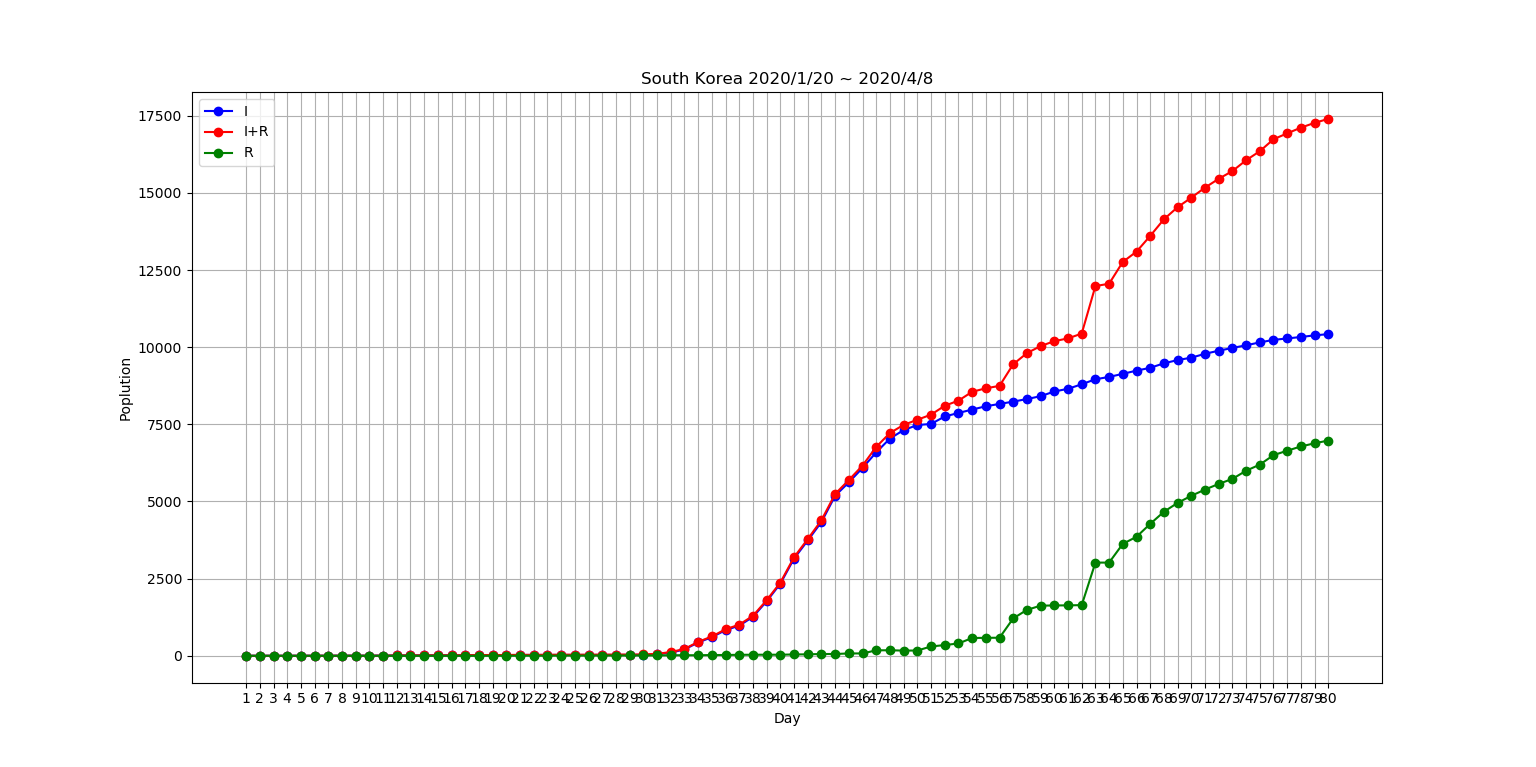
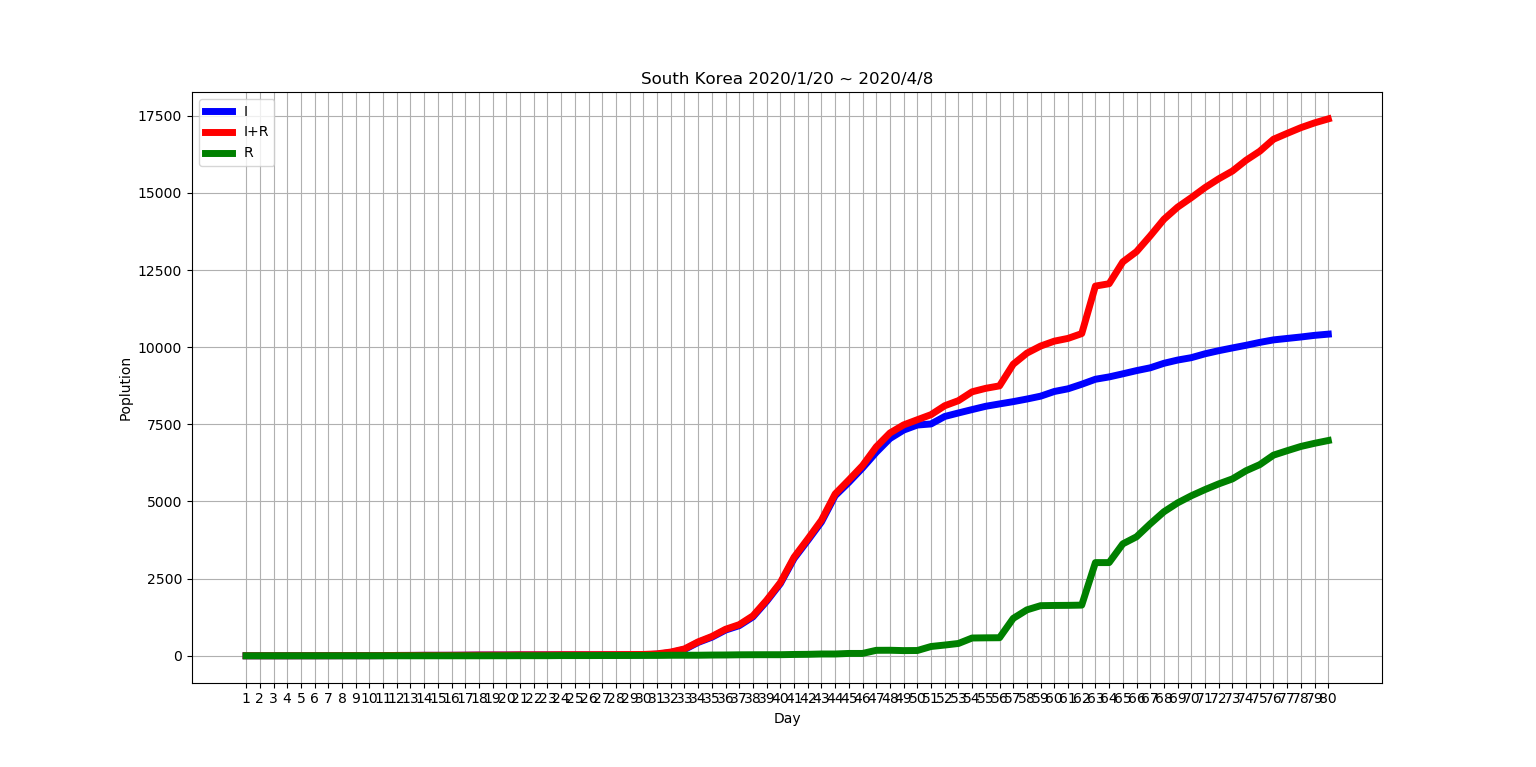
2020/4/10

diff --git a/Country_COVID19/Analysis.py b/Country_COVID19/Analysis.py
@@ -62,9 +62,9 @@ yIC = np.array(dataC['Cumulative number of confirmed cases'][0:51])
 yRC = np.array(dataC['D+R(cumulative)'][0:51])
 yC_C = yIC + yRC
 
-plt.plot(xC, yIC, '-ok', color = 'blue', label = 'I')
-plt.plot(xC, yC_C, '-ok', color = 'red', label = 'I+R')
-plt.plot(xC, yRC, '-ok', color = 'green', label = 'R')
+plt.plot(xC, yIC, '-', color = 'blue', label = 'I', linewidth = 5)
+plt.plot(xC, yC_C, '-', color = 'red', label = 'I+R', linewidth = 5)
+plt.plot(xC, yRC, '-', color = 'green', label = 'R', linewidth = 5)
 plt.title('China 2020/1/16 ~ 2020/3/5')
 plt.xlabel('Day')
 plt.ylabel('Poplution')
@@ -79,9 +79,9 @@ yIK = np.array(dataK['Cumulative number of confirmed cases'])
 yRK = np.array(dataK['Deaths(cumulative)'] + dataK['Recovered(cumulative)'])
 yK_C = yIK + yRK
 
-plt.plot(xK, yIK, '-ok', color = 'blue', label = 'I')
-plt.plot(xK, yK_C, '-ok', color = 'red', label = 'I+R')
-plt.plot(xK, yRK, '-ok', color = 'green', label = 'R')
+plt.plot(xK, yIK, '-', color = 'blue', label = 'I', linewidth = 5)
+plt.plot(xK, yK_C, '-', color = 'red', label = 'I+R', linewidth = 5)
+plt.plot(xK, yRK, '-', color = 'green', label = 'R', linewidth = 5)
 plt.title('South Korea 2020/1/20 ~ 2020/4/8')
 plt.xlabel('Day')
 plt.ylabel('Poplution')
@@ -96,9 +96,9 @@ yIIta = np.array(dataIt['Cumulative number of confirmed cases'])
 yRIta = np.array(dataIt['Deaths(cumulative)'] + dataIt['Recovered(cumulative)'])
 yIta_C = yIIta + yRIta
 
-plt.plot(xIta, yIIta, '-ok', color = 'blue', label = 'I')
-plt.plot(xIta, yIta_C, '-ok', color = 'red', label = 'I+R')
-plt.plot(xIta, yRIta, '-ok', color = 'green', label = 'R')
+plt.plot(xIta, yIIta, '-', color = 'blue', label = 'I', linewidth = 5)
+plt.plot(xIta, yIta_C, '-', color = 'red', label = 'I+R', linewidth = 5)
+plt.plot(xIta, yRIta, '-', color = 'green', label = 'R', linewidth = 5)
 plt.title('Italy 2020/2/17 ~ 2020/4/6')
 plt.xlabel('Day')
 plt.ylabel('Poplution')
